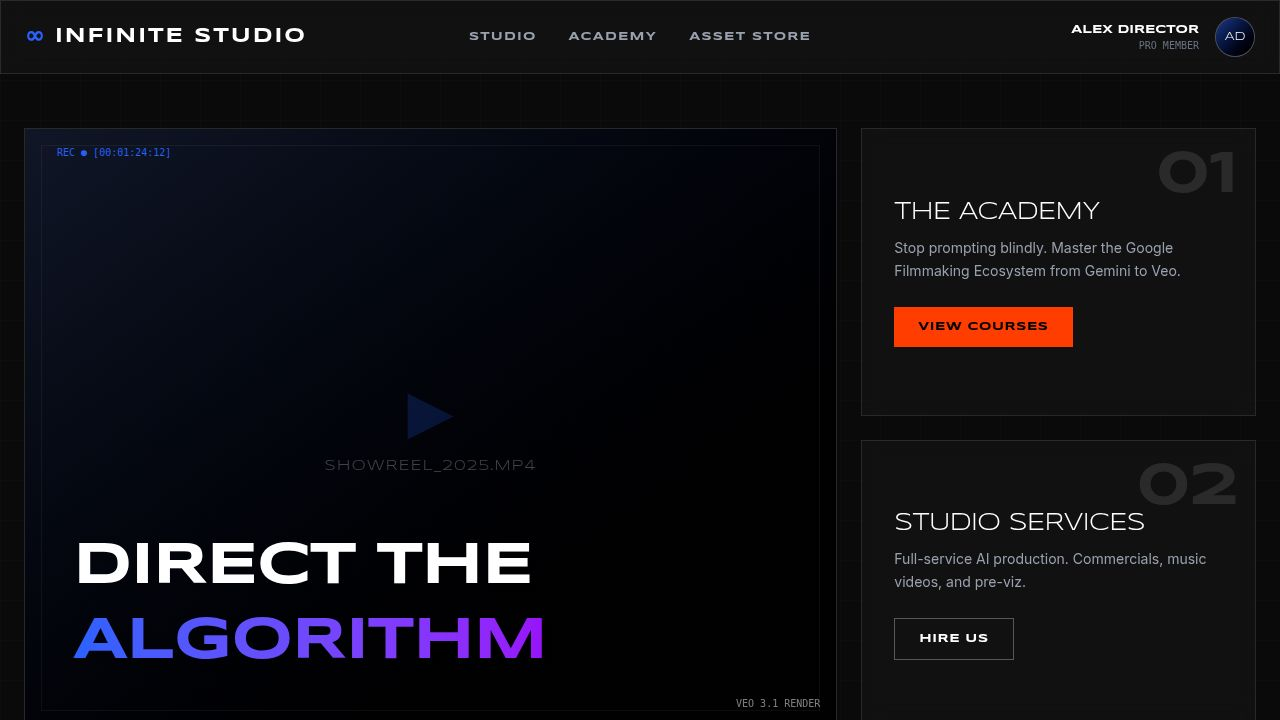
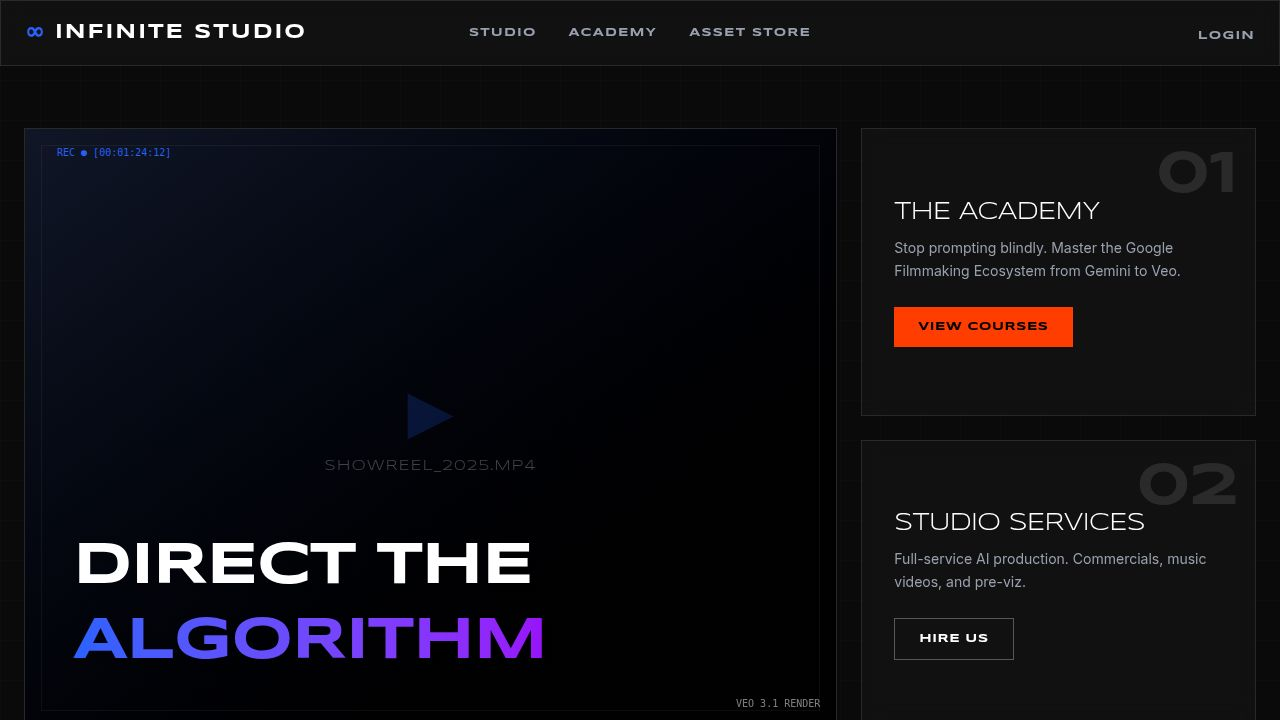
Update login and registration to display user initials correctly
Modify login and register pages to invalidate the `currentUser` query after successful authentication, ensuring the navbar updates to show user initials instead of "Login".

Replit-Commit-Author: Agent
Replit-Commit-Session-Id: 728023cb-82d5-4094-9c52-570506f3faa0
Replit-Commit-Checkpoint-Type: full_checkpoint
Replit-Commit-Event-Id: d02e93e0-5f3c-462a-85ba-6d679cdb0929
Replit-Commit-Screenshot-Url: https://storage.googleapis.com/screenshot-production-us-central1/d9977ba7-291d-4b41-b805-f7b6521821f6/728023cb-82d5-4094-9c52-570506f3faa0/S7LzCVZ
Replit-Helium-Checkpoint-Created: true

Changed region(s): [[0.8438, 0.0306, 1.0, 0.0917], [0.375, 0.0306, 0.625, 0.0611], [0.0, 0.0306, 0.25, 0.0611]]

diff --git a/client/src/pages/register.tsx b/client/src/pages/register.tsx
@@ -2,11 +2,13 @@ import { Link, useLocation } from "wouter";
 import { useState } from "react";
 import { register } from "@/lib/api";
 import { useToast } from "@/hooks/use-toast";
+import { useQueryClient } from "@tanstack/react-query";
 
 export default function Register() {
   const [, setLocation] = useLocation();
   const { toast } = useToast();
   const [isLoading, setIsLoading] = useState(false);
+  const queryClient = useQueryClient();
 
   const handleRegister = async (e: React.FormEvent<HTMLFormElement>) => {
     e.preventDefault();
@@ -48,6 +50,7 @@ export default function Register() {
       });
       setIsLoading(false);
     } else {
+      await queryClient.invalidateQueries({ queryKey: ["currentUser"] });
       toast({
         title: "Account created!",
         description: "Welcome to Infinite Studio. Redirecting...",

diff --git a/client/src/pages/login.tsx b/client/src/pages/login.tsx
@@ -3,11 +3,13 @@ import { Footer } from "@/components/footer";
 import { useState } from "react";
 import { login } from "@/lib/api";
 import { useToast } from "@/hooks/use-toast";
+import { useQueryClient } from "@tanstack/react-query";
 
 export default function Login() {
   const [, setLocation] = useLocation();
   const { toast } = useToast();
   const [isLoading, setIsLoading] = useState(false);
+  const queryClient = useQueryClient();
 
   const handleLogin = async (e: React.FormEvent<HTMLFormElement>) => {
     e.preventDefault();
@@ -27,6 +29,7 @@ export default function Login() {
       });
       setIsLoading(false);
     } else {
+      await queryClient.invalidateQueries({ queryKey: ["currentUser"] });
       toast({
         title: "Welcome back!",
         description: "Redirecting to dashboard...",
